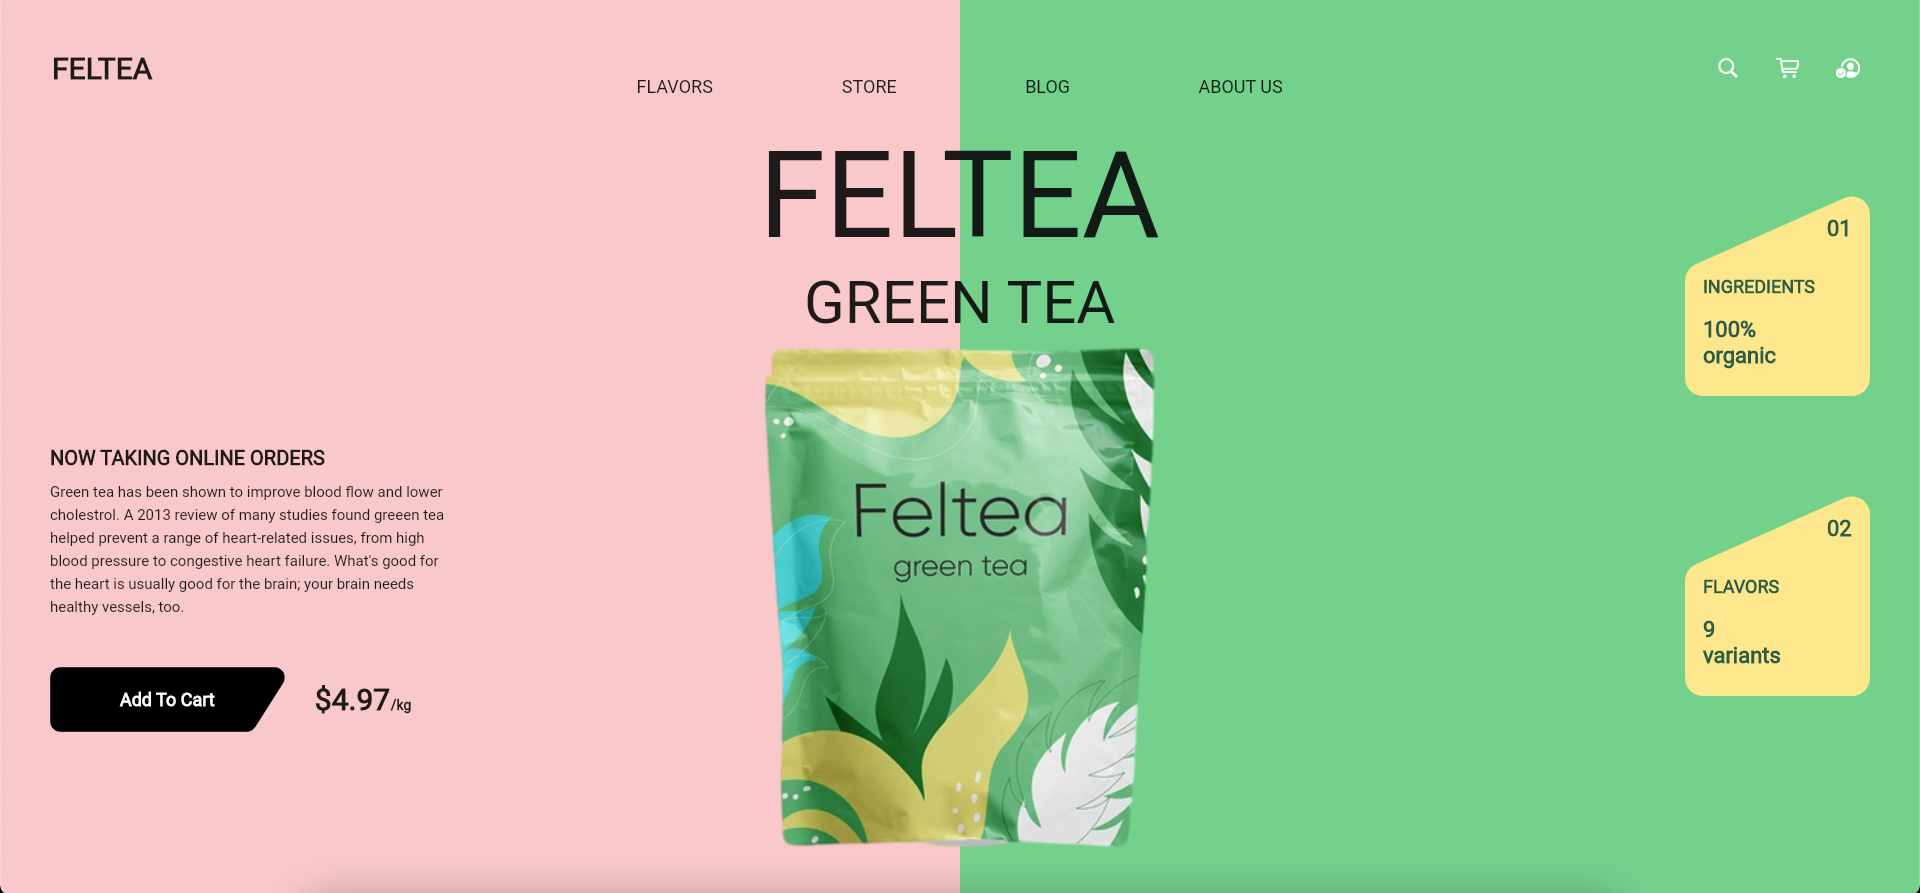
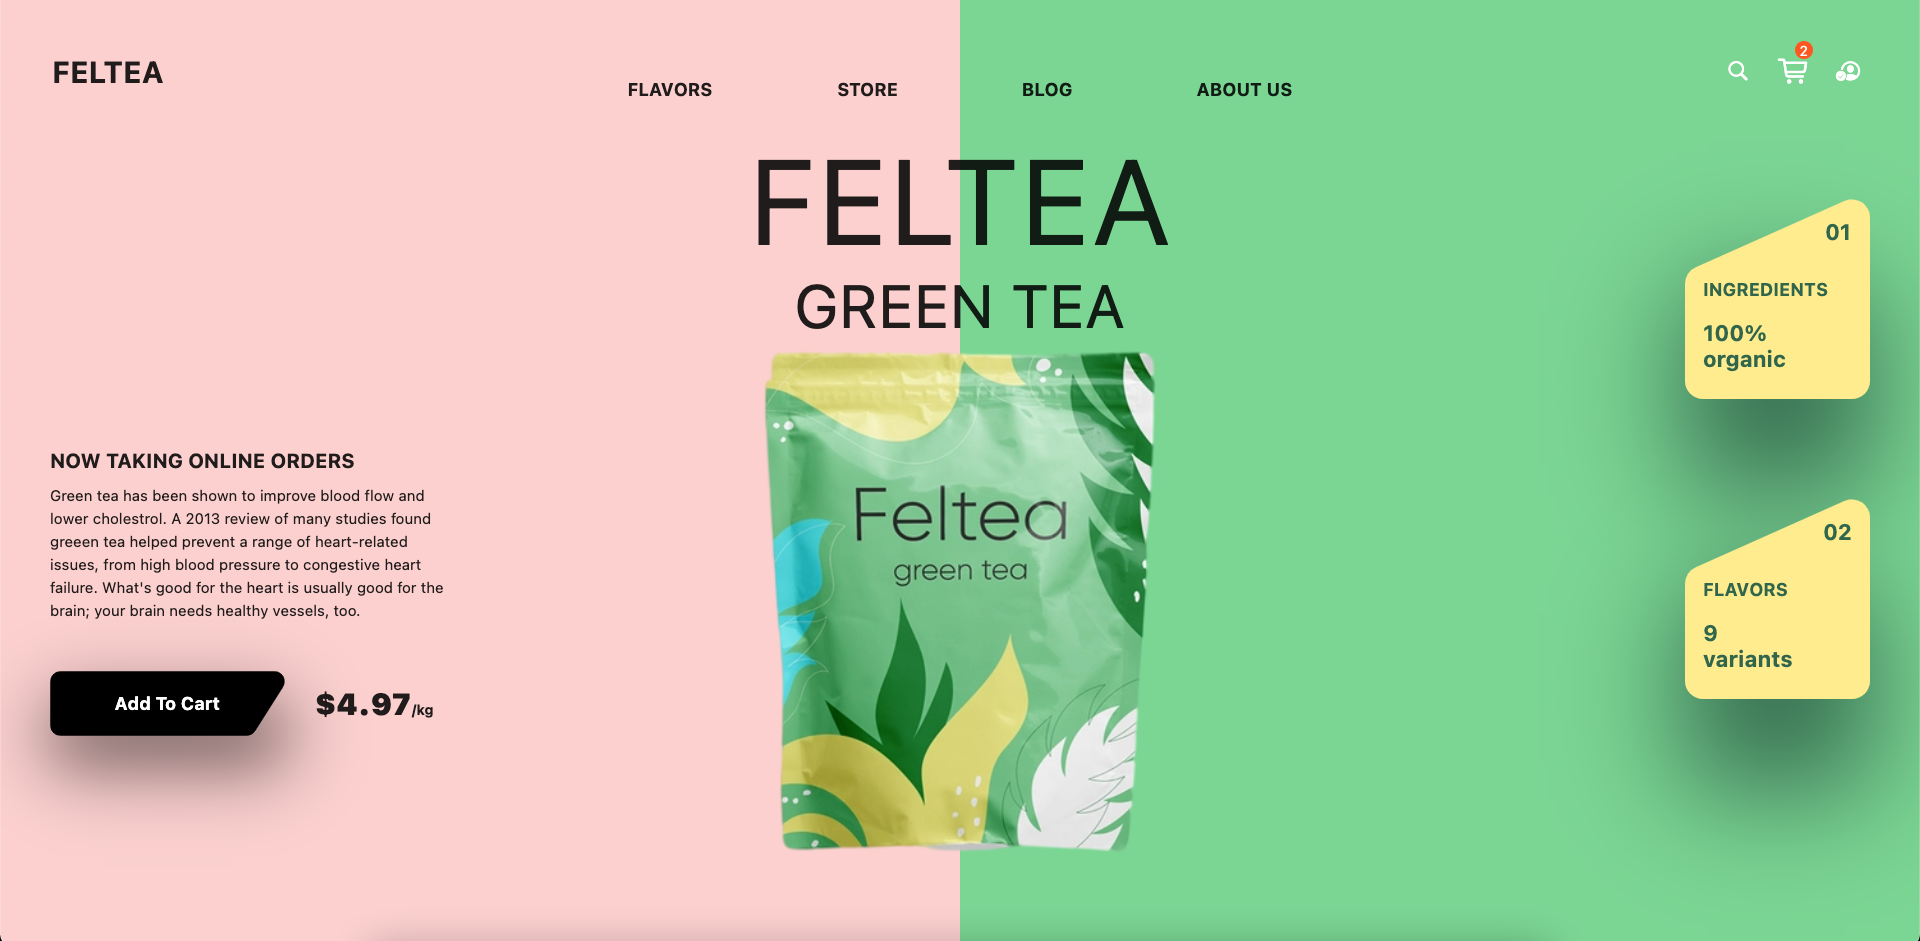
added rest of the designs

diff --git a/lib/main.dart b/lib/main.dart
@@ -59,11 +59,38 @@ class MyApp extends StatelessWidget {
                               SizedBox(
                                 width: 20,
                               ),
-                              IconButton(
-                                onPressed: () {},
-                                icon: Icon(
-                                  CupertinoIcons.cart,
-                                  color: Colors.white,
+                              GestureDetector(
+                                onTap: () {},
+                                child: Stack(
+                                  clipBehavior: Clip.none,
+                                  children: [
+                                    Icon(
+                                      CupertinoIcons.cart,
+                                      color: Colors.white,
+                                      size: 30,
+                                    ),
+                                    Positioned(
+                                      top: -15,
+                                      right: -5,
+                                      child: Container(
+                                        height: 18,
+                                        width: 18,
+                                        child: Center(
+                                          child: Text(
+                                            '2',
+                                            style: TextStyle(
+                                              color: Colors.white,
+                                            ),
+                                          ),
+                                        ),
+                                        decoration: BoxDecoration(
+                                          color: Colors.deepOrange,
+                                          borderRadius:
+                                              BorderRadius.circular(15),
+                                        ),
+                                      ),
+                                    ),
+                                  ],
                                 ),
                               ),
                               SizedBox(
@@ -96,24 +123,28 @@ class MyApp extends StatelessWidget {
                             'FLAVORS',
                             style: TextStyle(
                               fontSize: 18,
+                              fontWeight: FontWeight.bold,
                             ),
                           ),
                           Text(
                             'STORE',
                             style: TextStyle(
                               fontSize: 18,
+                              fontWeight: FontWeight.bold,
                             ),
                           ),
                           Text(
                             'BLOG',
                             style: TextStyle(
                               fontSize: 18,
+                              fontWeight: FontWeight.bold,
                             ),
                           ),
                           Text(
                             'ABOUT US',
                             style: TextStyle(
                               fontSize: 18,
+                              fontWeight: FontWeight.bold,
                             ),
                           ),
                           SizedBox(
@@ -184,11 +215,20 @@ class MyApp extends StatelessWidget {
                               Stack(
                                 alignment: Alignment.center,
                                 children: [
-                                  SvgPicture.asset(
-                                    'lib/Rectangle3.svg',
-                                    color: Colors.black,
-                                    height: 65,
-                                    width: 150,
+                                  Container(
+                                    decoration: BoxDecoration(boxShadow: [
+                                      BoxShadow(
+                                        color: Colors.black.withOpacity(0.6),
+                                        offset: Offset(0, 30),
+                                        blurRadius: 60,
+                                      ),
+                                    ]),
+                                    child: SvgPicture.asset(
+                                      'lib/Rectangle3.svg',
+                                      color: Colors.black,
+                                      height: 65,
+                                      width: 150,
+                                    ),
                                   ),
                                   Text(
                                     'Add To Cart',
@@ -211,7 +251,7 @@ class MyApp extends StatelessWidget {
                                     '\$4.97',
                                     style: TextStyle(
                                       fontSize: 30,
-                                      fontWeight: FontWeight.w700,
+                                      fontWeight: FontWeight.w900,
                                     ),
                                   ),
                                   Text(
@@ -237,10 +277,19 @@ class MyApp extends StatelessWidget {
                         children: [
                           Stack(
                             children: [
-                              SvgPicture.asset(
-                                'lib/Rectangle4.svg',
-                                height: 200,
-                                color: AppColors.bannerColor,
+                              Container(
+                                decoration: BoxDecoration(boxShadow: [
+                                  BoxShadow(
+                                    color: AppColors.bannerTextColor,
+                                    offset: Offset(0, 90),
+                                    blurRadius: 100,
+                                  ),
+                                ]),
+                                child: SvgPicture.asset(
+                                  'lib/Rectangle4.svg',
+                                  height: 200,
+                                  color: AppColors.bannerColor,
+                                ),
                               ),
                               Positioned(
                                 right: 18,
@@ -289,10 +338,19 @@ class MyApp extends StatelessWidget {
                           ),
                           Stack(
                             children: [
-                              SvgPicture.asset(
-                                'lib/Rectangle4.svg',
-                                height: 200,
-                                color: AppColors.bannerColor,
+                              Container(
+                                decoration: BoxDecoration(boxShadow: [
+                                  BoxShadow(
+                                    color: AppColors.bannerTextColor,
+                                    offset: Offset(0, 90),
+                                    blurRadius: 100,
+                                  )
+                                ]),
+                                child: SvgPicture.asset(
+                                  'lib/Rectangle4.svg',
+                                  height: 200,
+                                  color: AppColors.bannerColor,
+                                ),
                               ),
                               Positioned(
                                 right: 18,
